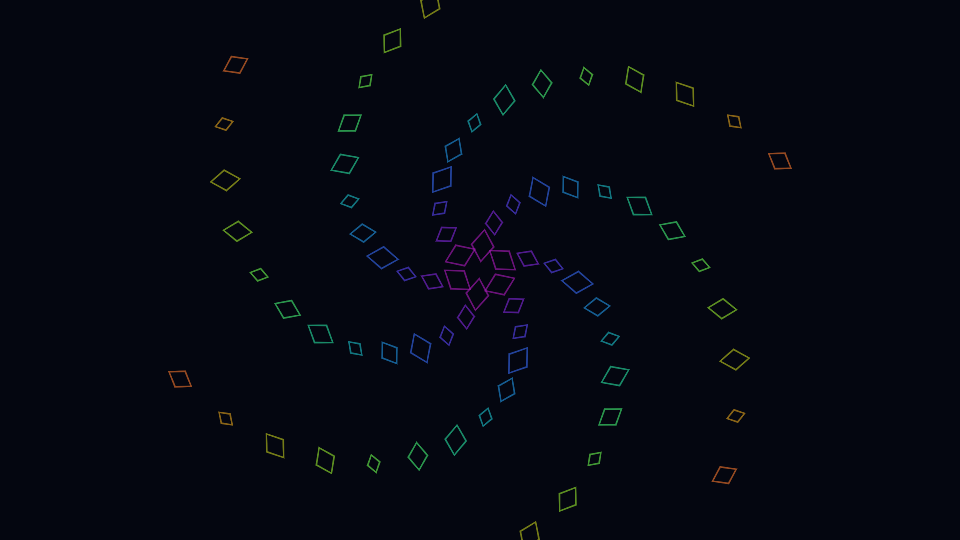
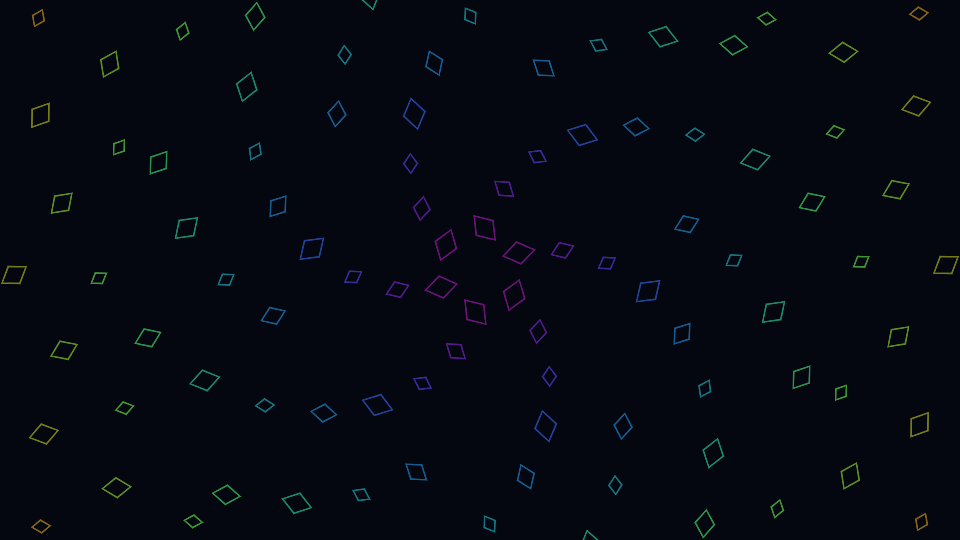
Fit all effects to ultrawide and portrait screens

diff --git a/README.md b/README.md
@@ -4,7 +4,7 @@ Screensaver gives your idle Gen1Recomp game five animated escapes, with an optio
 
 ## Install
 
-1. Download `Screensaver-v1.0.0.zip` from [the latest release](https://github.com/Bentley734/Screensaver/releases/latest).
+1. Download `Screensaver-v1.0.1.zip` from [the latest release](https://github.com/Bentley734/Screensaver/releases/latest).
 2. Extract the `screensaver` folder into Gen1Recomp's `mods` directory, enable **Screensaver** in the mod manager and restart the game.
 3. Open **Options → Screensaver**, choose an effect and use **Preview** or leave the controls idle.
 
@@ -20,7 +20,7 @@ Requires Gen1Recomp 0.3.54 or newer within the 0.3.x series. Targets Red, Blue, 
 | Prism Garden | A rotating sixfold garden of color-shifting diamonds. |
 | Moonlit Ripples | Expanding elliptical rings and wandering fireflies. |
 
-Previews are in [docs](docs/), also available as a separate release download.
+Previews are in [docs](docs/), including a [32:9 gallery](docs/ultrawide.png), also available as a separate release download.
 
 ## Controls
 
@@ -44,7 +44,7 @@ Settings persist through the game's normal options storage. Preview also enables
 
 Uses shared `core.update`, input and `render.hud` hooks. The only internal adapter adds the submenu to Gen 3 options; it stops contributing when the mod is disabled. No game data, save progression, art packs or battle rules are modified. Other mods using these same hooks should forward the hook chain normally. Screensaver only runs where the engine allows mods; online arena boots may disable it.
 
-The regression suite loads the mod through the real sandboxed loader for all eleven games under LuaJIT and Lua 5.3, then checks activation, all five effects, pause/live simulation, wake input, held controls, focus recovery and hook removal. Native LÖVE rendering checks six screen sizes. These checks use fixtures rather than full interactive playthroughs.
+The regression suite loads the mod through the real sandboxed loader for all eleven games under LuaJIT and Lua 5.3, then checks activation, all five effects, pause/live simulation, wake input, held controls, focus recovery and hook removal. Effects adapt to the full window, including 32:9 ultrawide and portrait displays, without stretching individual balls or diamonds. Native LÖVE rendering checks eight screen sizes, including 3840×1080 and 5120×1440, and verifies artwork in both outer thirds of a 32:9 frame. These checks use fixtures rather than full interactive playthroughs.
 
 From the workspace containing the engine checkout:
 
@@ -55,3 +55,4 @@ python gen1recomp-0.3.54/tools/modkit.py lint Screensaver
 ```
 
 All effects are original procedural drawings, using ordinary LÖVE primitives with no shader or texture dependencies.
+

diff --git a/CHANGELOG.md b/CHANGELOG.md
@@ -1,5 +1,13 @@
 # Changelog
 
+## [1.0.1] - 2026-10-22
+
+### Changed
+- All effects adapt to the entire window, including 32:9 ultrawide and portrait screens.
+- Prism Garden expands across the frame instead of remaining in a central circle.
+- Neon Pokeballs begin distributed across the available width and height.
+- Wider and taller layouts gain more stars, balls, ripples and fireflies while preserving primitive shapes.
+
 ## [1.0.0] - 2026-10-22
 
 ### Added
